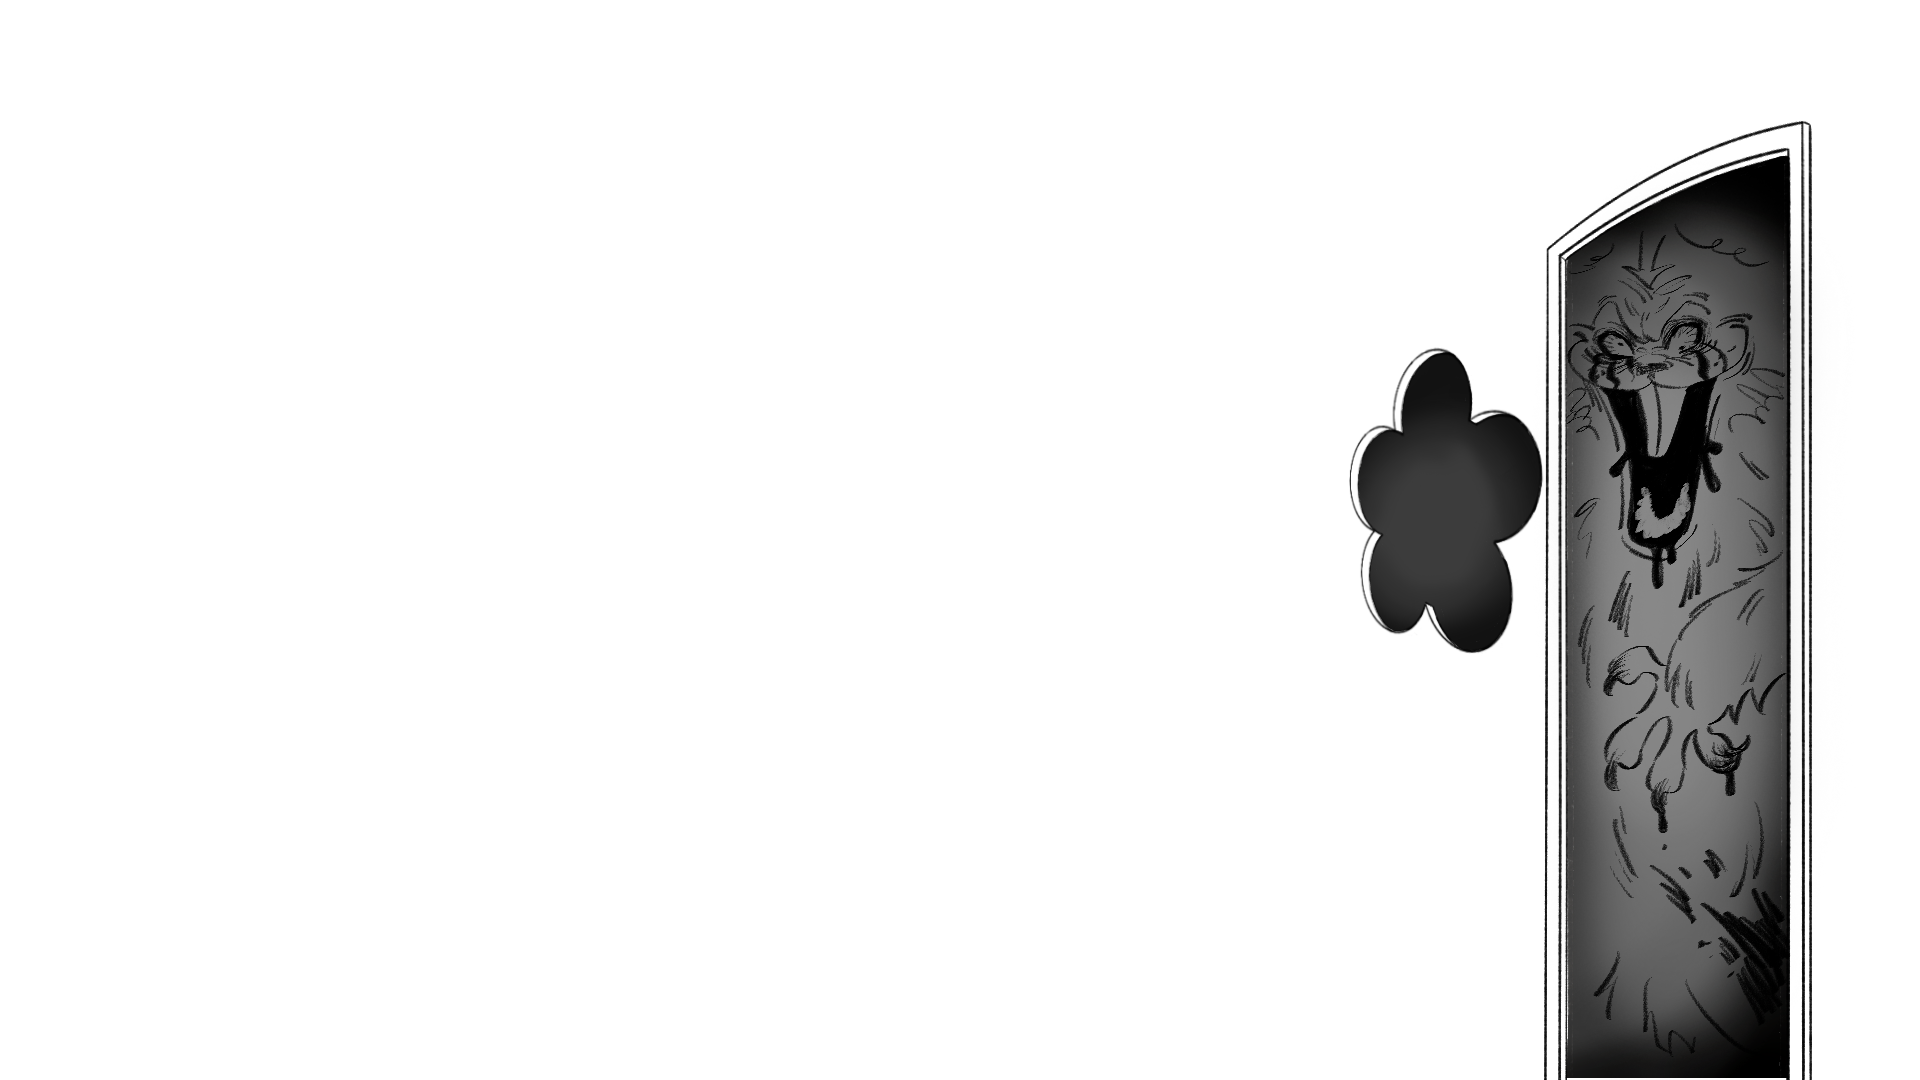
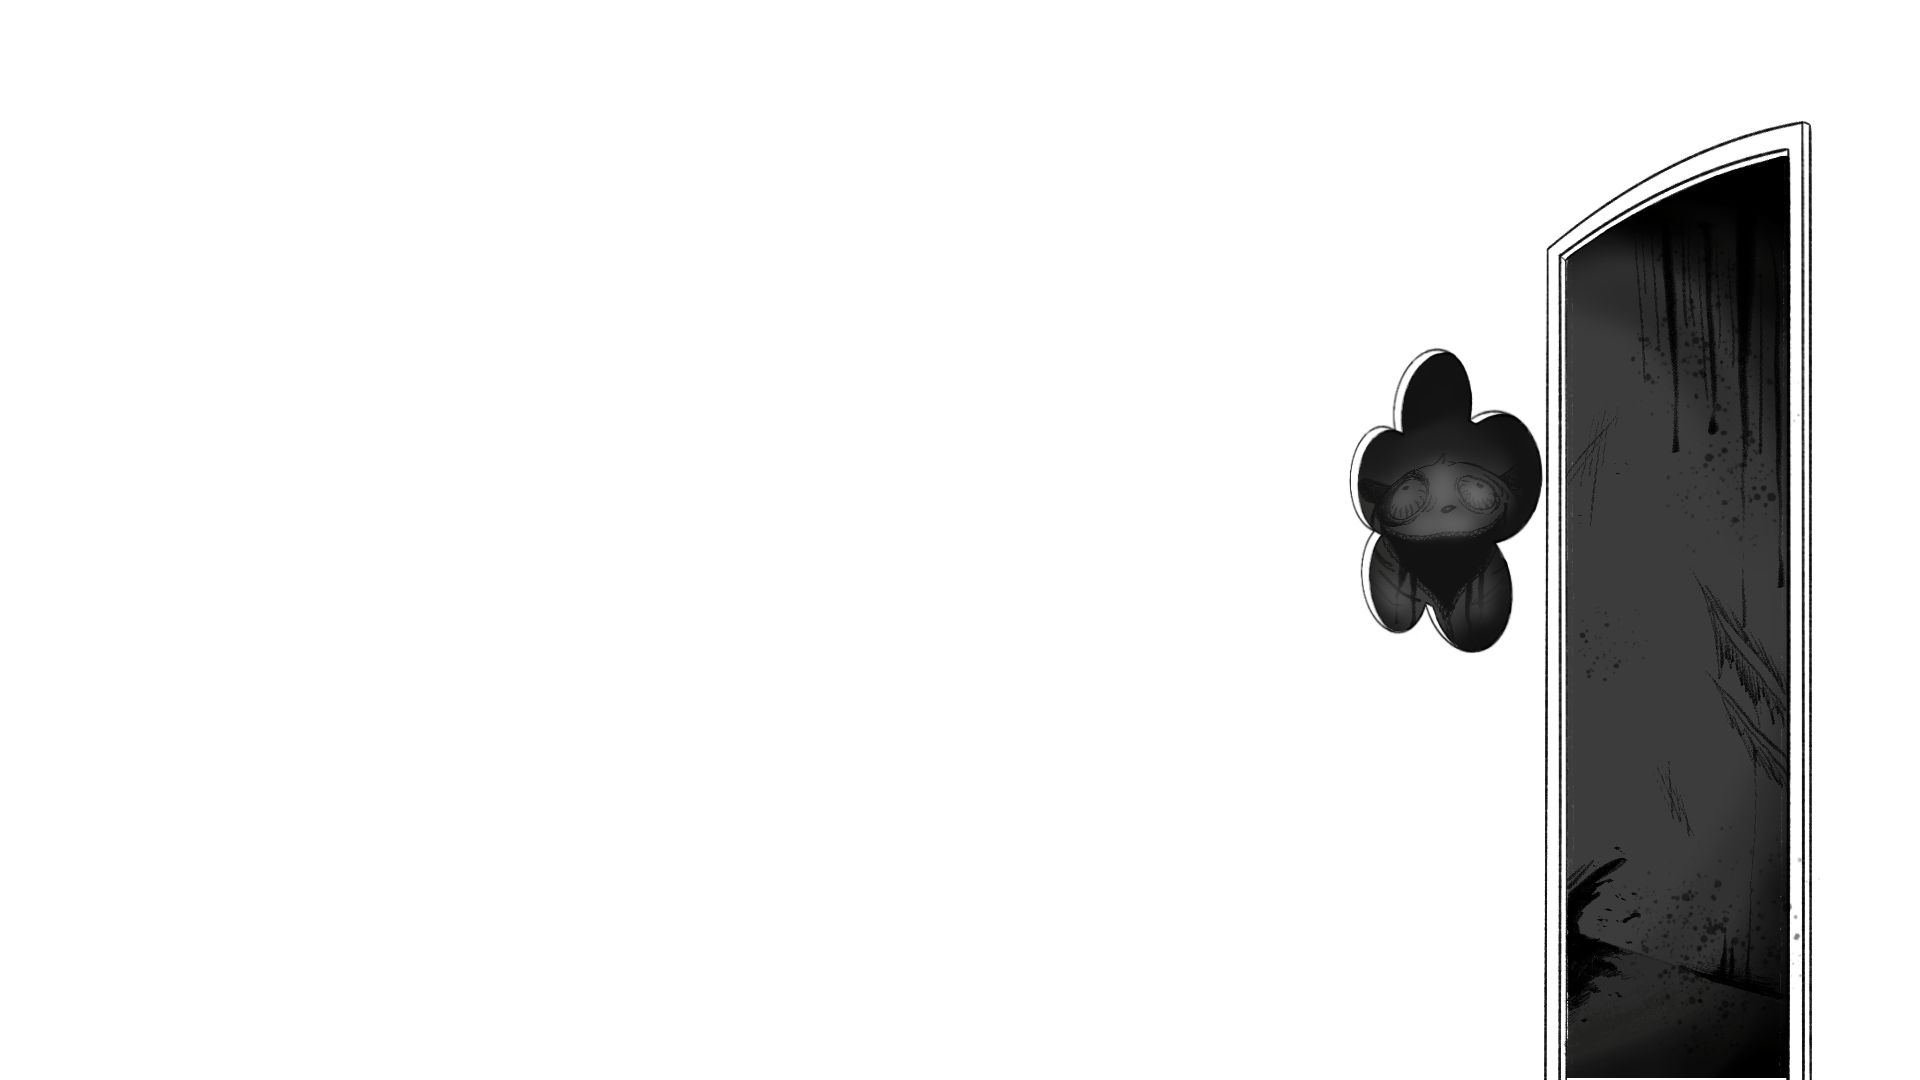
oui

Changed region(s): [[0.8125, 0.1833, 0.9375, 0.9778], [0.6875, 0.4278, 0.7812, 0.55]]

diff --git a/jeu.py b/jeu.py
@@ -231,7 +231,7 @@ image_porte_fermee_active = False
 camera_active = None
 image_porte_lumiere1_active = False
 image_porte_fermee1_active = False
-
+image_sourire_porte_active = False  # Variable pour l'image sourire porte
 
 # Initialiser les positions initiales des personnages
 personnage_pos = {1: bouton1_pos, 2: bouton1_pos, 3: bouton1_pos}
@@ -626,13 +626,24 @@ while True:
                 if image_porte_lumiere_active:
                     fenetre.blit(image_sourireporte, (0,0))  # Remplacez (100, 100) par la position appropriée
 
-    
+    # Logique pour définir l'activation de image_sourire_porte_active
+    image_sourire_porte_active = False  # Réinitialiser à chaque itération
+    if camera_active is None:
+        for personnage, pos in personnage_pos.items():
+            if pos == porte1_pos or pos == porte2_pos:
+                if image_porte_lumiere_active:
+                    image_sourire_porte_active = True
+
     porte_pos = (0, 0)
 
     # Affichage de la porte avec la lumière
     if image_porte_lumiere_active:
         fenetre.blit(image_porte_lumiere, porte_pos)
         
+    # Affichage de l'image sourire porte
+    if image_sourire_porte_active:
+        fenetre.blit(image_sourireporte, (0, 0))  # Remplacez (0, 0) par la position appropriée
+
     if image_porte_fermee_active:
         fenetre.blit(image_porte_fermee, porte_pos)
 
@@ -640,9 +651,14 @@ while True:
     # Affichage de la porte avec la lumière
     if image_porte_lumiere1_active:
         fenetre.blit(image_porte_lumiere1, porte_pos)
+
+    
         
     if image_porte_fermee1_active:
         fenetre.blit(image_porte_fermee1, porte_pos)
+
+
+
 
 
     pygame.display.flip()
